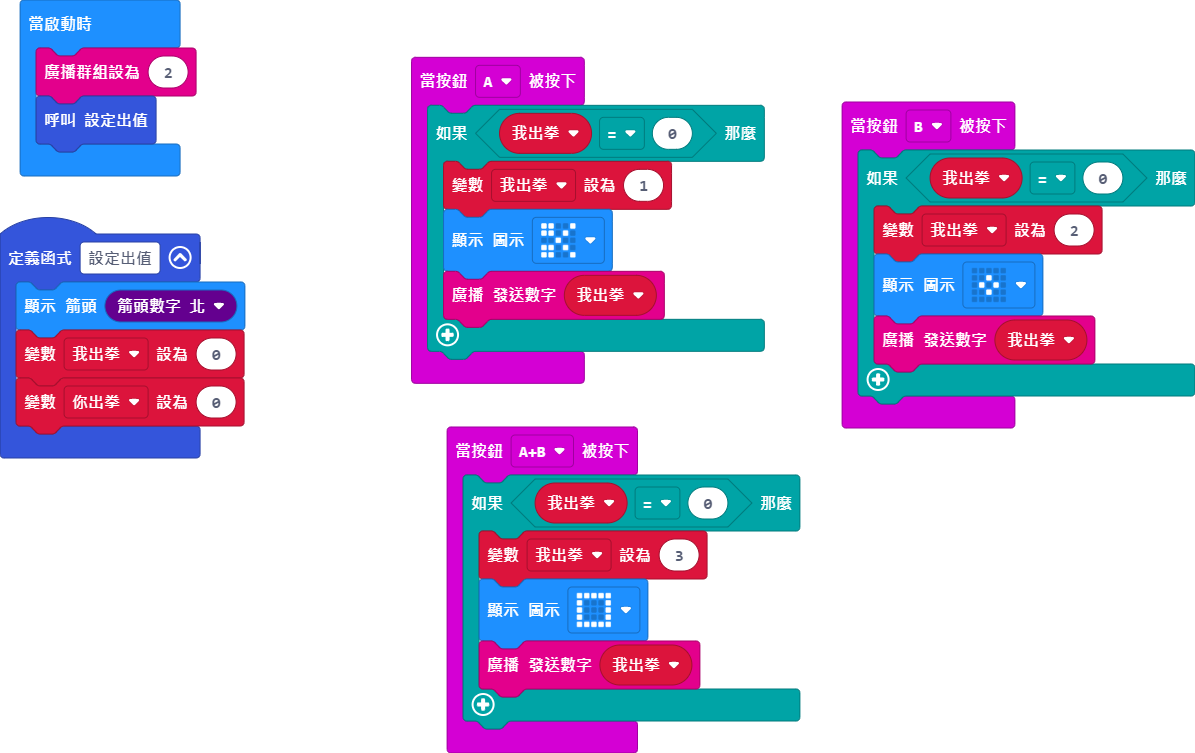
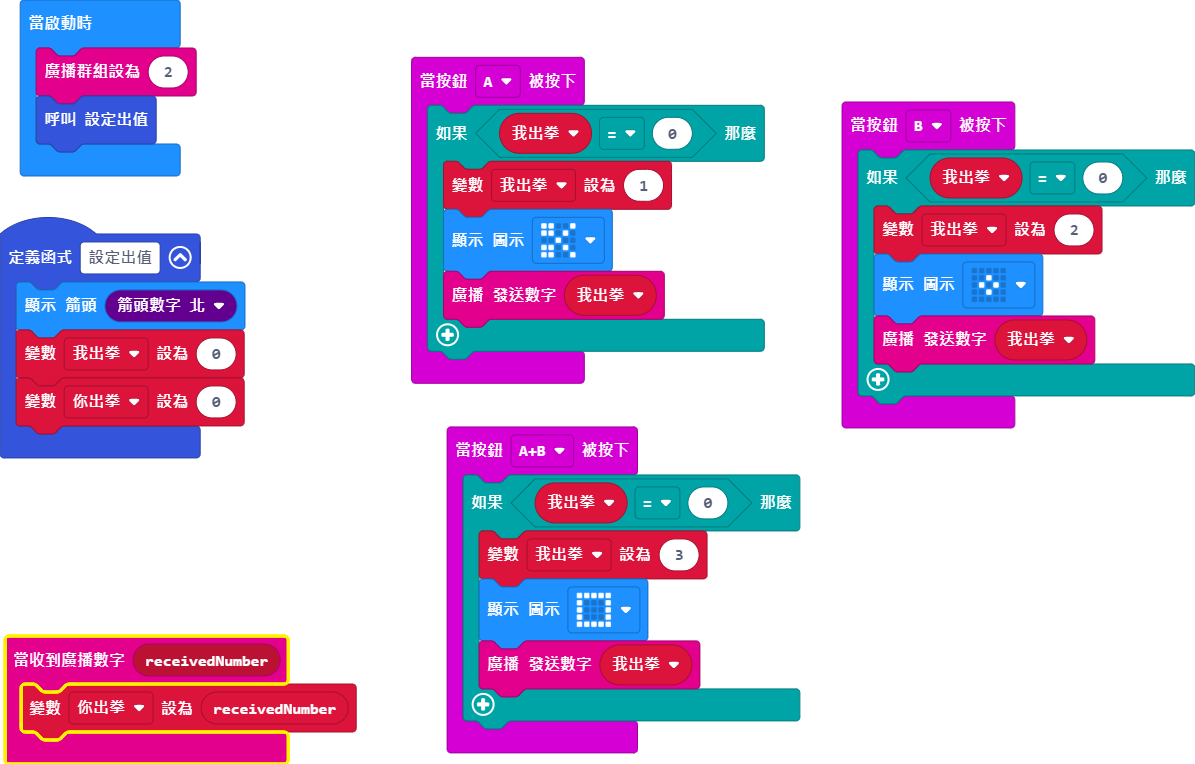
更新 main.blocks, main.ts

diff --git a/main.ts b/main.ts
@@ -1,3 +1,6 @@
+radio.onReceivedNumber(function (receivedNumber) {
+    你出拳 = receivedNumber
+})
 input.onButtonPressed(Button.A, function () {
     if (我出拳 == 0) {
         我出拳 = 1
@@ -24,7 +27,7 @@ input.onButtonPressed(Button.B, function () {
         radio.sendNumber(我出拳)
     }
 })
-let 你出拳 = 0
 let 我出拳 = 0
+let 你出拳 = 0
 radio.setGroup(2)
 設定出值()
